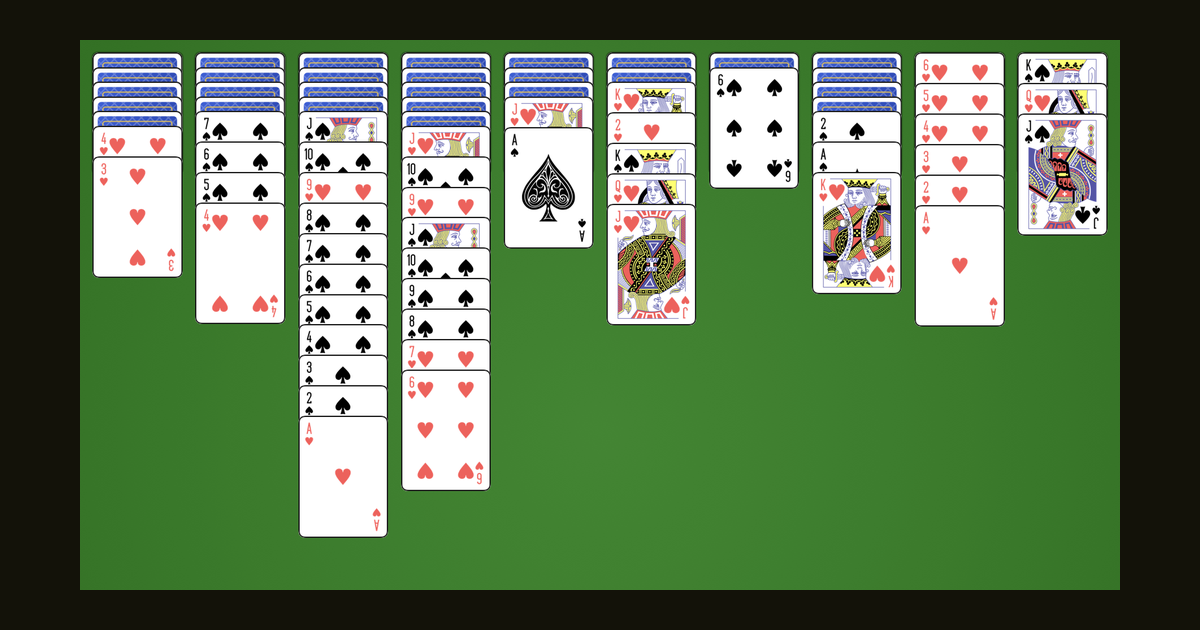
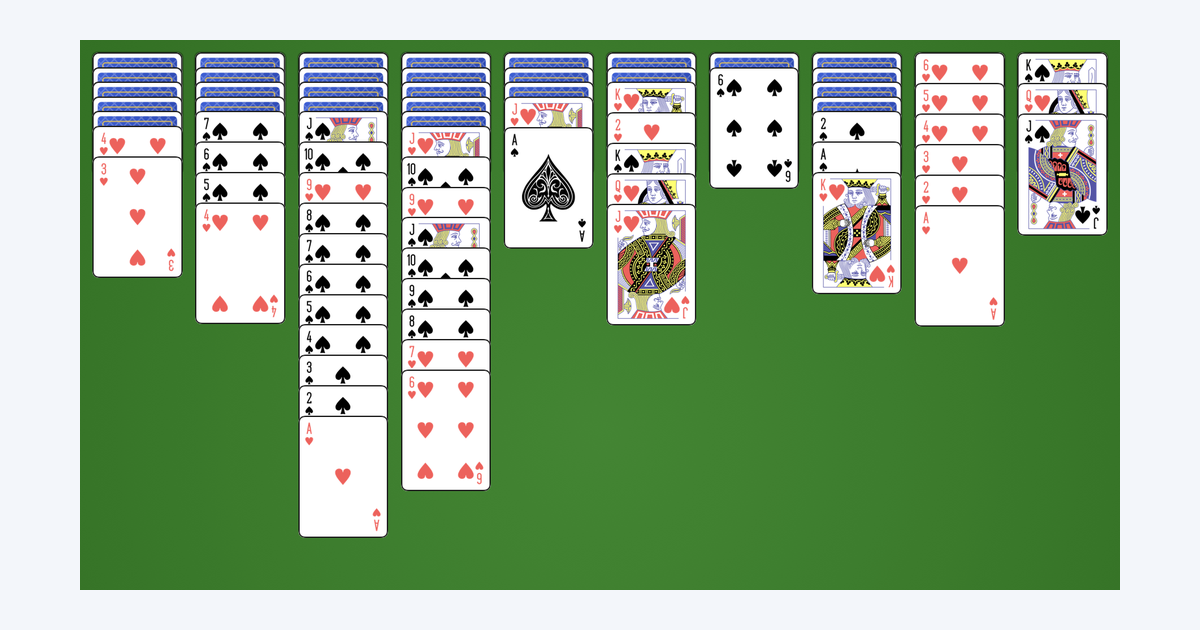
Website: Card Back Sky colour scheme (off-white and burgundy) replaces the dark palette (#7)
Colours are custom properties in site.css (accent roles instead of hard-coded values), all text
pairs WCAG AA. theme-color #F3F6FA on every page; the social card's background matches the page
(site_assets.py too). ?still stays.

Changed region(s): [[0.0, 0.0, 1.0, 1.0]]

diff --git a/docs/site.css b/docs/site.css
@@ -26,17 +26,23 @@
   --s-400: 32px; --s-500: 40px; --s-600: 48px; --s-700: 64px; --s-800: 80px; --s-900: 96px;
   /* Radius (Tailwind) */
   --r-sm: 4px; --r-md: 6px; --r-lg: 8px; --r-xl: 12px; --r-2xl: 16px; --r-3xl: 24px; --r-full: 9999px;
-  /* Colour: dark theme */
-  --bg: #131209; --surface: #1F1F1F; --surface-2: #272727; --surface-3: #313131;
-  --text: #F5F3EC; --muted: #B4B1A6; --faint: #8A877C;
-  --line: rgba(255, 255, 255, 0.1);
-  --gold: #F5C733; --gold-hover: #F8D35C; --felt: #007F0E; --felt-text: #4FD15F;
+  /* Colour: "Card Back Sky", off-white and burgundy like the classic card back. Every text colour
+     meets WCAG AA (4.5:1) on --bg and the surfaces; the gold is for decoration only. */
+  --bg: #F3F6FA; --surface: #FFFFFF; --surface-2: #E9EFF6; --surface-3: #DCE5EF;
+  --text: #1C2333; --muted: #465069; --faint: #576079;
+  --line: rgba(28, 35, 51, 0.14);
+  --accent: #7A1F35; --accent-hover: #62182A; --on-accent: #FFF8E7; --accent-text: #7A1F35;
+  --felt-text: #7A5410; --accent-line: rgba(200, 150, 46, 0.55);
+  --nav-bg: rgba(255, 255, 255, 0.8); --menu-bg: rgba(243, 246, 250, 0.96);
+  --link-underline: rgba(28, 35, 51, 0.3); --heading-from: #1C2333; --heading-to: #465069;
+  --word-dim: rgba(28, 35, 51, 0.25); --code-bg: #E9EFF6;
+  --card-shadow: rgba(28, 35, 51, 0.22); --shot-shadow: rgba(28, 35, 51, 0.25);
   /* Motion */
   --ease: cubic-bezier(0.22, 1, 0.36, 1);
   --serif: "Cormorant Garamond", "Iowan Old Style", "Palatino", Georgia, serif;
   --sans: "Manrope", ui-sans-serif, system-ui, -apple-system, "Segoe UI", sans-serif;
   --mono: ui-monospace, "SF Mono", Menlo, Consolas, monospace;
-  color-scheme: dark;
+  color-scheme: light;
 }
 
 *, *::before, *::after { box-sizing: border-box; }
@@ -71,12 +77,12 @@ code, kbd { font-family: var(--mono); font-size: 16px; line-height: 24px; }
 .skip-link {
   position: absolute; left: var(--s-200); top: var(--s-200); z-index: 100;
   padding: var(--s-75) var(--s-100); border-radius: var(--r-lg);
-  background: var(--gold); color: #131209; font-weight: 600; text-decoration: none;
+  background: var(--accent); color: var(--on-accent); font-weight: 600; text-decoration: none;
   transform: translateY(-200%); transition: transform 300ms var(--ease);
 }
 .skip-link:focus-visible { transform: translateY(0); }
 
-:focus-visible { outline: 2px solid var(--gold); outline-offset: 3px; border-radius: var(--r-sm); }
+:focus-visible { outline: 2px solid var(--accent); outline-offset: 3px; border-radius: var(--r-sm); }
 
 .container { width: min(1120px, 100% - var(--s-600)); margin-inline: auto; }
 section { padding-block: var(--s-900); }
@@ -88,7 +94,7 @@ section { padding-block: var(--s-900); }
   display: flex; align-items: center; gap: var(--s-300);
   padding: var(--s-75) var(--s-75) var(--s-75) var(--s-200);
   border: 1px solid var(--line); border-radius: var(--r-full);
-  background: rgba(31, 31, 31, 0.72);
+  background: var(--nav-bg);
   -webkit-backdrop-filter: blur(16px) saturate(1.4); backdrop-filter: blur(16px) saturate(1.4);
   width: max-content; max-width: calc(100% - var(--s-400));
 }
@@ -117,7 +123,7 @@ section { padding-block: var(--s-900); }
 
 .mobile-menu {
   position: fixed; inset: 0; z-index: 40; padding: var(--s-900) var(--s-300) var(--s-400);
-  background: rgba(19, 18, 9, 0.94);
+  background: var(--menu-bg);
   -webkit-backdrop-filter: blur(24px); backdrop-filter: blur(24px);
   opacity: 0; pointer-events: none; transition: opacity 300ms var(--ease);
 }
@@ -141,8 +147,8 @@ section { padding-block: var(--s-900); }
   transition: background-color 300ms var(--ease), transform 300ms var(--ease), border-color 300ms var(--ease);
 }
 .button:active { transform: scale(0.98); }
-.button-primary { background: var(--gold); color: #131209; }
-.button-primary:hover { background: var(--gold-hover); transform: translateY(-1px); }
+.button-primary { background: var(--accent); color: var(--on-accent); }
+.button-primary:hover { background: var(--accent-hover); transform: translateY(-1px); }
 .button-primary:active { transform: scale(0.98); }
 .button-ghost { border-color: var(--line); color: var(--text); background: transparent; }
 .button-ghost:hover { background: var(--surface-2); }
@@ -150,17 +156,17 @@ section { padding-block: var(--s-900); }
 .nav .button { font-size: 16px; line-height: 24px; padding: var(--s-75) var(--s-200); }
 .text-link {
   display: inline-flex; align-items: center; gap: var(--s-50);
-  color: var(--muted); text-decoration: underline; text-decoration-color: rgba(255, 255, 255, 0.25);
+  color: var(--muted); text-decoration: underline; text-decoration-color: var(--link-underline);
   text-underline-offset: 4px; transition: color 300ms var(--ease), text-decoration-color 300ms var(--ease);
 }
-.text-link:hover { color: var(--text); text-decoration-color: var(--gold); }
+.text-link:hover { color: var(--text); text-decoration-color: var(--accent); }
 
 /* Hero */
 .hero { padding-top: calc(var(--s-900) + var(--s-800)); padding-bottom: var(--s-800); text-align: center; }
 .hero-fan { display: flex; justify-content: center; margin-bottom: var(--s-400); height: 96px; }
 .hero-fan img {
   width: 64px; height: 96px; border-radius: var(--r-md); background: #fff;
-  box-shadow: 0 8px 24px rgba(0, 0, 0, 0.45); margin-inline: -8px;
+  box-shadow: 0 8px 24px var(--card-shadow); margin-inline: -8px;
 }
 .hero-fan img:nth-child(1) { transform: rotate(-12deg) translateY(8px); }
 .hero-fan img:nth-child(3) { transform: rotate(12deg) translateY(8px); }
@@ -171,7 +177,7 @@ section { padding-block: var(--s-900); }
 }
 .hero h1, .gradient-text {
   max-width: 680px; margin-inline: auto;
-  background: linear-gradient(90deg, #FFFFFF, #9B9B9B);
+  background: linear-gradient(90deg, var(--heading-from), var(--heading-to));
   -webkit-background-clip: text; background-clip: text; color: transparent;
 }
 .hero .subheading { max-width: 680px; margin: var(--s-300) auto 0; color: var(--muted); }
@@ -184,7 +190,7 @@ section { padding-block: var(--s-900); }
 .window {
   margin: var(--s-700) auto 0; max-width: 1040px; border-radius: var(--r-xl);
   border: 1px solid var(--line); background: var(--surface); overflow: hidden;
-  box-shadow: 0 32px 80px rgba(0, 0, 0, 0.55);
+  box-shadow: 0 32px 80px var(--shot-shadow);
 }
 .window-bar { display: flex; align-items: center; gap: var(--s-75); padding: var(--s-100) var(--s-200); background: var(--surface-2); }
 .window-bar i { width: 12px; height: 12px; border-radius: var(--r-full); background: #FF5F57; }
@@ -213,7 +219,7 @@ section { padding-block: var(--s-900); }
 .story-cards { position: relative; height: 320px; }
 .story-cards img {
   position: absolute; width: 160px; border-radius: var(--r-xl); background: #fff;
-  box-shadow: 0 16px 40px rgba(0, 0, 0, 0.5);
+  box-shadow: 0 16px 40px var(--card-shadow);
   transition: transform 500ms var(--ease);
 }
 .story-cards img:nth-child(1) { left: 12%; top: 32px; transform: rotate(-10deg); }
@@ -229,10 +235,10 @@ section { padding-block: var(--s-900); }
   background: var(--surface); transition: transform 500ms var(--ease), border-color 300ms var(--ease);
 }
 .benefit:nth-child(4), .benefit:nth-child(5) { grid-column: span 3; }
-.benefit:hover { transform: translateY(-4px); border-color: rgba(245, 199, 51, 0.35); }
+.benefit:hover { transform: translateY(-4px); border-color: var(--accent-line); }
 .benefit .badge {
   display: inline-flex; width: 40px; height: 40px; align-items: center; justify-content: center;
-  border-radius: var(--r-xl); background: var(--surface-3); color: var(--gold); margin-bottom: var(--s-300);
+  border-radius: var(--r-xl); background: var(--surface-3); color: var(--accent-text); margin-bottom: var(--s-300);
 }
 .benefit h3 { font-size: 22px; line-height: 32px; }
 .benefit p { margin-top: var(--s-75); color: var(--muted); }
@@ -240,7 +246,7 @@ section { padding-block: var(--s-900); }
 /* Tagline reveal */
 .tagline { padding-block: var(--s-900); }
 .tagline p { max-width: 680px; margin-inline: auto; text-align: center; text-wrap: balance; }
-.tagline .word { color: rgba(245, 243, 236, 0.3); transition: color 500ms var(--ease); }
+.tagline .word { color: var(--word-dim); transition: color 500ms var(--ease); }
 .tagline .word.on { color: var(--text); }
 
 /* Gallery */
@@ -257,7 +263,7 @@ section { padding-block: var(--s-900); }
 .step-number {
   display: inline-flex; width: 40px; height: 40px; align-items: center; justify-content: center;
   border-radius: var(--r-full); border: 1px solid var(--line); font-family: var(--serif); font-size: 28px; line-height: 36px;
-  color: var(--gold); margin-bottom: var(--s-300);
+  color: var(--accent-text); margin-bottom: var(--s-300);
 }
 .step h3 { font-size: 22px; line-height: 32px; }
 .step p { margin-top: var(--s-75); color: var(--muted); }
@@ -268,7 +274,7 @@ section { padding-block: var(--s-900); }
 .code {
   display: flex; align-items: center; justify-content: space-between; gap: var(--s-200);
   margin-top: var(--s-200); padding: var(--s-75) var(--s-75) var(--s-75) var(--s-200);
-  border: 1px solid var(--line); border-radius: var(--r-xl); background: #000; overflow-x: auto;
+  border: 1px solid var(--line); border-radius: var(--r-xl); background: var(--code-bg); overflow-x: auto;
 }
 .code code { white-space: nowrap; color: var(--text); }
 .copy {
@@ -283,20 +289,20 @@ section { padding-block: var(--s-900); }
 /* Proof: open and checkable */
 .facts { display: grid; grid-template-columns: repeat(3, 1fr); gap: var(--s-300); }
 .fact { padding: var(--s-400); border: 1px solid var(--line); border-radius: var(--r-2xl); }
-.fact .value { font-family: var(--serif); font-size: 54px; line-height: 1; color: var(--gold); }
+.fact .value { font-family: var(--serif); font-size: 54px; line-height: 1; color: var(--accent-text); }
 .fact h3 { margin-top: var(--s-200); font-size: 20px; line-height: 32px; }
 .fact p { margin-top: var(--s-75); color: var(--muted); }
 
 /* FAQ */
 .faq { max-width: 800px; margin-inline: auto; display: grid; gap: var(--s-100); }
 .faq details { border: 1px solid var(--line); border-radius: var(--r-2xl); background: var(--surface); transition: border-color 300ms var(--ease); }
-.faq details[open] { border-color: rgba(245, 199, 51, 0.3); }
+.faq details[open] { border-color: var(--accent-line); }
 .faq summary {
   list-style: none; cursor: pointer; padding: var(--s-300); font-weight: 600; font-size: 20px; line-height: 32px;
   display: flex; justify-content: space-between; gap: var(--s-200); border-radius: var(--r-2xl);
 }
 .faq summary::-webkit-details-marker { display: none; }
-.faq summary::after { content: "+"; color: var(--gold); transition: transform 500ms var(--ease); }
+.faq summary::after { content: "+"; color: var(--accent-text); transition: transform 500ms var(--ease); }
 .faq details[open] summary::after { transform: rotate(45deg); }
 .faq summary:hover { background: var(--surface-2); }
 .faq details p { padding: 0 var(--s-300) var(--s-300); color: var(--muted); }

diff --git a/docs/index.html b/docs/index.html
@@ -11,7 +11,7 @@
 <title>Spider Solitaire for Mac: the Windows XP classic, free and native</title>
 <meta name="description" content="A free, faithful remake of Windows XP Spider Solitaire for macOS 14 and later. One, two or four suits, classic scoring, unlimited undo, winnable deals and 14 achievements. No ads, no account.">
 <link rel="canonical" href="https://dansailer.github.io/SpiderSolitaire/">
-<meta name="theme-color" content="#131209">
+<meta name="theme-color" content="#F3F6FA">
 <link rel="icon" href="assets/favicon.svg" type="image/svg+xml">
 <link rel="icon" href="assets/favicon-32.png" sizes="32x32" type="image/png">
 <link rel="apple-touch-icon" href="assets/icon-180.png">

diff --git a/docs/privacy.html b/docs/privacy.html
@@ -6,7 +6,7 @@
 <title>Privacy: Spider Solitaire</title>
 <meta name="description" content="What Spider Solitaire and its website collect: nothing.">
 <link rel="canonical" href="https://dansailer.github.io/SpiderSolitaire/privacy.html">
-<meta name="theme-color" content="#131209">
+<meta name="theme-color" content="#F3F6FA">
 <link rel="icon" href="assets/favicon.svg" type="image/svg+xml">
 <link rel="icon" href="assets/favicon-32.png" sizes="32x32" type="image/png">
 <link rel="apple-touch-icon" href="assets/icon-180.png">

diff --git a/docs/terms.html b/docs/terms.html
@@ -6,7 +6,7 @@
 <title>Terms: Spider Solitaire</title>
 <meta name="description" content="Spider Solitaire is free software under the MIT licence.">
 <link rel="canonical" href="https://dansailer.github.io/SpiderSolitaire/terms.html">
-<meta name="theme-color" content="#131209">
+<meta name="theme-color" content="#F3F6FA">
 <link rel="icon" href="assets/favicon.svg" type="image/svg+xml">
 <link rel="icon" href="assets/favicon-32.png" sizes="32x32" type="image/png">
 <link rel="apple-touch-icon" href="assets/icon-180.png">

diff --git a/docs/404.html b/docs/404.html
@@ -6,7 +6,7 @@
 <title>Page not found: Spider Solitaire</title>
 <meta name="description" content="This page does not exist.">
 <meta name="robots" content="noindex">
-<meta name="theme-color" content="#131209">
+<meta name="theme-color" content="#F3F6FA">
 <link rel="icon" href="/SpiderSolitaire/assets/favicon.svg" type="image/svg+xml">
 <link rel="icon" href="/SpiderSolitaire/assets/favicon-32.png" sizes="32x32" type="image/png">
 <link rel="apple-touch-icon" href="/SpiderSolitaire/assets/icon-180.png">

diff --git a/scripts/site_assets.py b/scripts/site_assets.py
@@ -37,8 +37,8 @@ sizes["help"] = webp(os.path.join(snap, "help.png"), "help.webp", 800, crop=(356
 sizes["achievements"] = webp(os.path.join(snap, "achievements.png"), "achievements.webp", 1440)
 sizes["general"] = webp(os.path.join(snap, "settings-general.png"), "settings-general.webp", 1040)
 
-# Social card 1200 x 630: the board on the felt colour.
-og = Image.new("RGB", (1200, 630), (19, 18, 9))
+# Social card 1200 x 630: the board on the page background (--bg, #F3F6FA).
+og = Image.new("RGB", (1200, 630), (243, 246, 250))
 b = Image.open(os.path.join(snap, "board.png")).convert("RGB").resize((1040, 780), Image.LANCZOS)
 og.paste(b.crop((0, 0, 1040, 550)), (80, 40))
 og.save(os.path.join(ASSETS, "og-image.png"), optimize=True)
